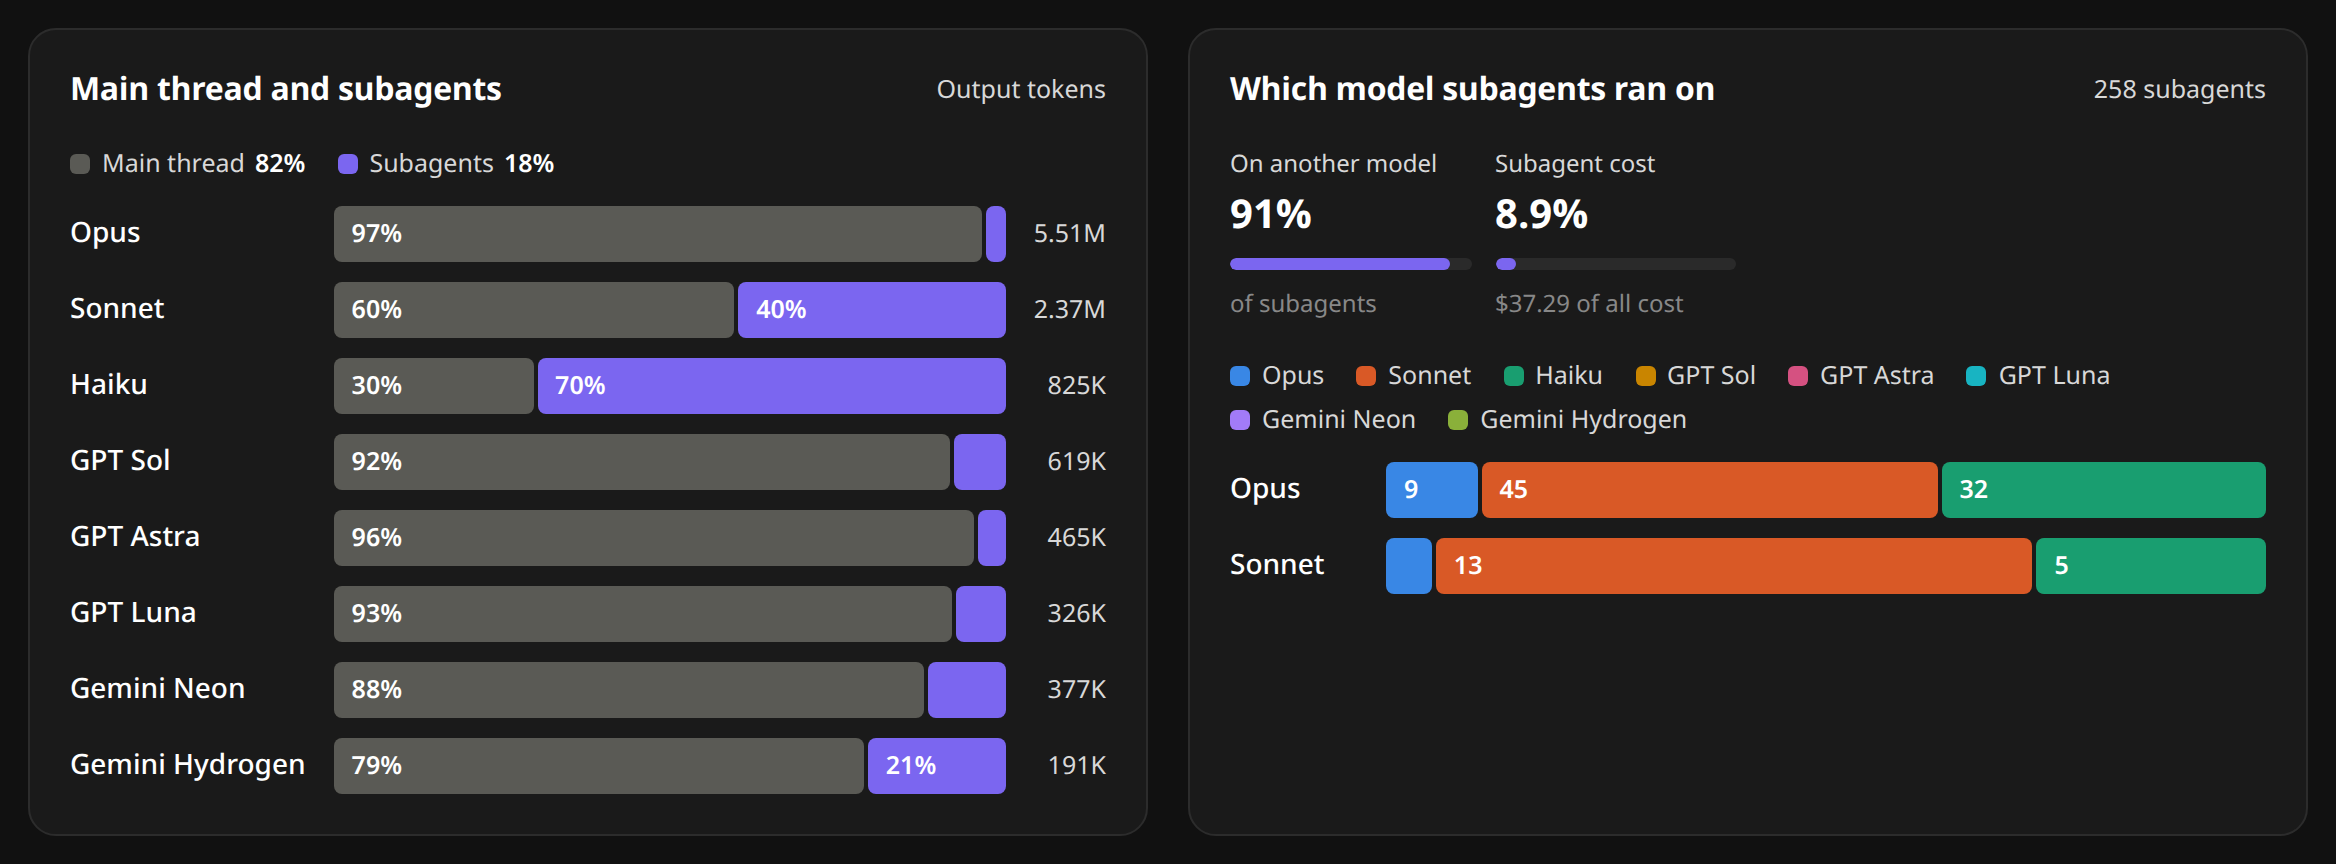
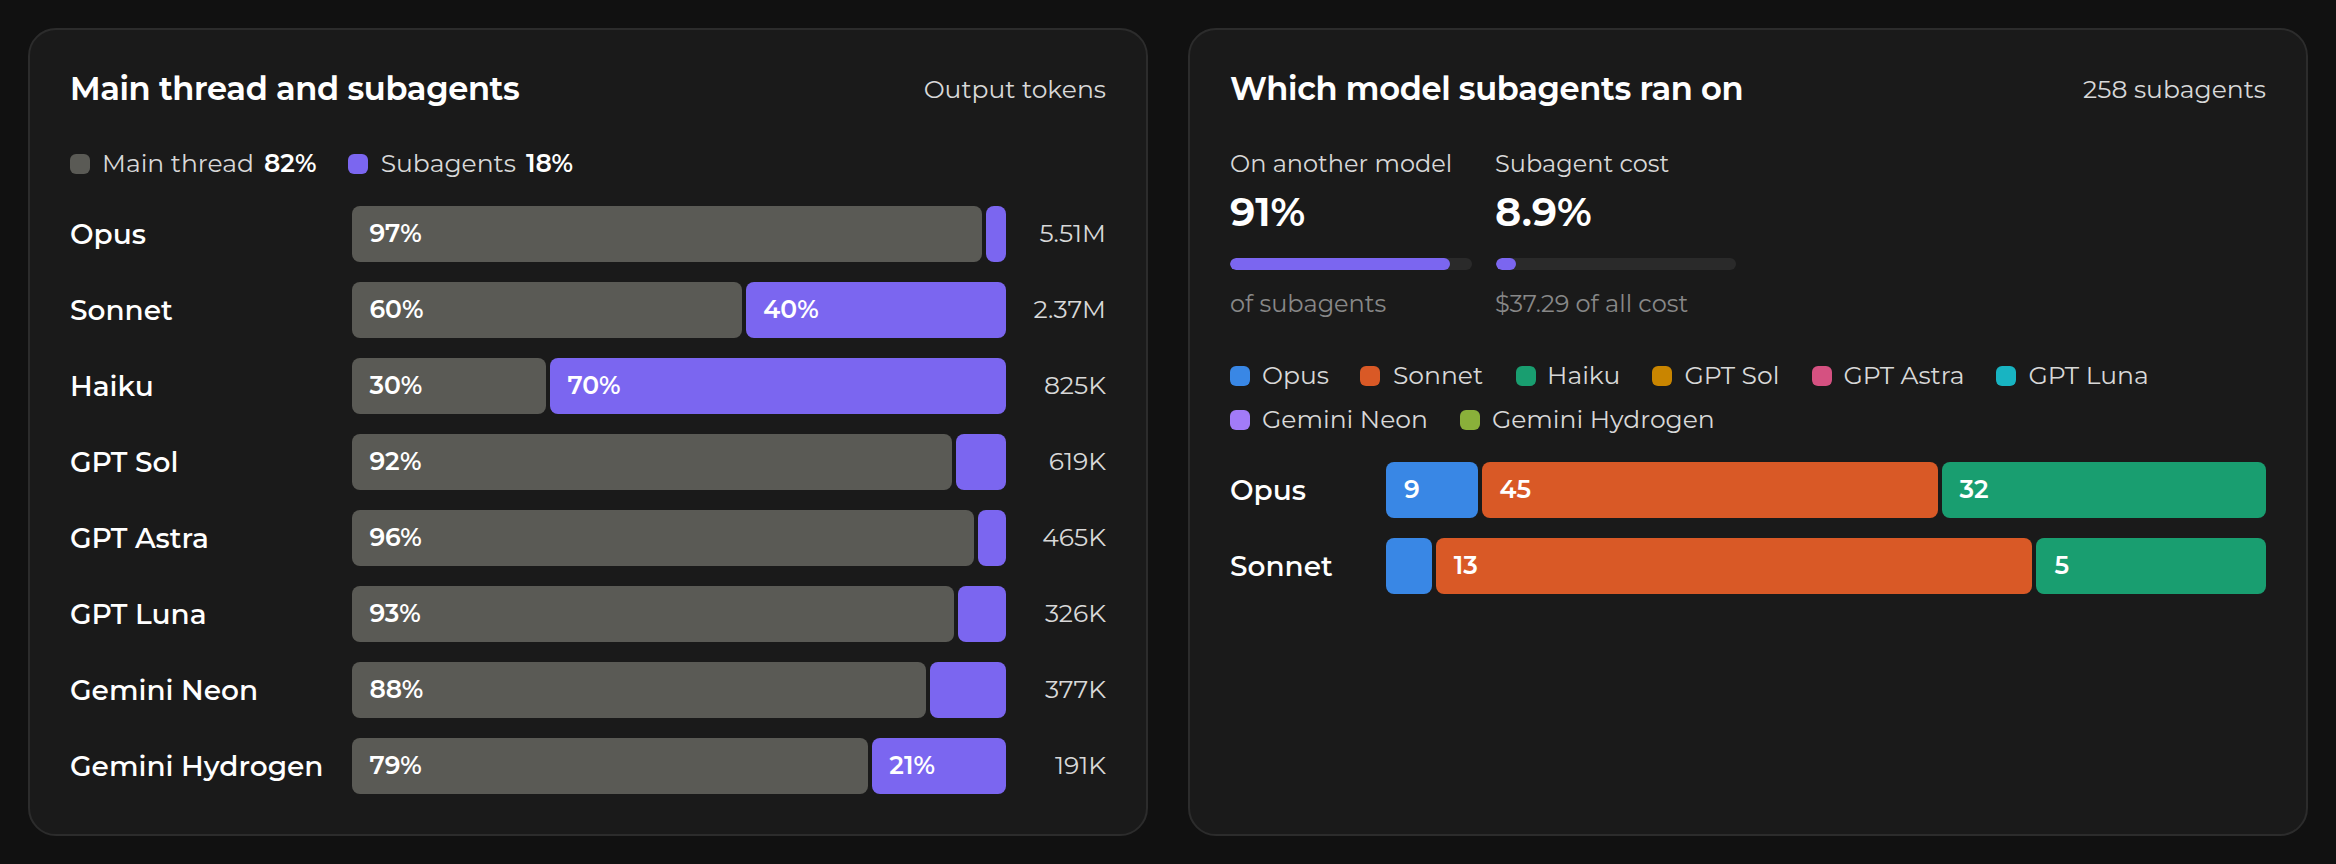
fix(dashboard): bundle Montserrat and Roboto Mono as local WOFF2

diff --git a/dashboard/src/styles.css b/dashboard/src/styles.css
@@ -25,9 +25,9 @@
 * { box-sizing: border-box; }
 html { -webkit-text-size-adjust: 100%; color-scheme: light; }
 html[data-theme="dark"] { color-scheme: dark; }
-body { margin: 0; background: var(--page); color: var(--ink); font: 14px/1.45 "Montserrat", system-ui, -apple-system, "Segoe UI", sans-serif; }
+body { margin: 0; background: var(--page); color: var(--ink); font: 14px/1.45 "Montserrat Variable", "Montserrat", system-ui, -apple-system, "Segoe UI", sans-serif; }
 button, select, input { font: inherit; color: inherit; }
-code { font: 12.5px/1 "Roboto Mono", ui-monospace, "SF Mono", Menlo, monospace; }
+code { font: 12.5px/1 "Roboto Mono Variable", "Roboto Mono", ui-monospace, "SF Mono", Menlo, monospace; }
 .app { display: grid; grid-template-columns: 228px minmax(0, 1fr); min-height: 100vh; }
 
 /* sidebar */

diff --git a/dashboard/src/main.tsx b/dashboard/src/main.tsx
@@ -1,5 +1,7 @@
 import { createRoot } from "react-dom/client";
 import { App } from "./App.tsx";
+import "@fontsource-variable/montserrat";
+import "@fontsource-variable/roboto-mono";
 import "./styles.css";
 import { installTip } from "./tip.ts";
 
